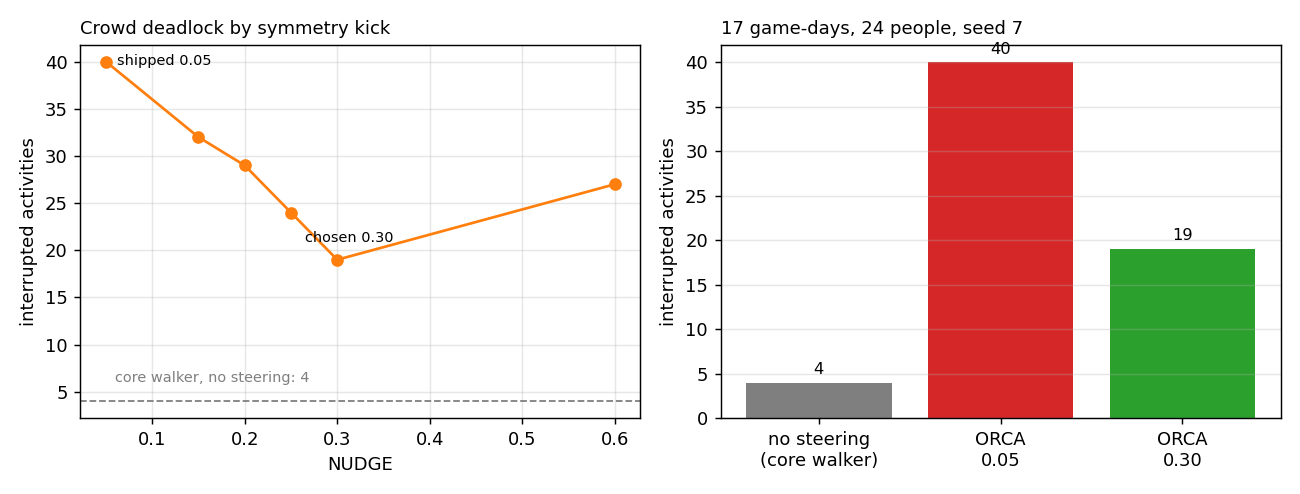
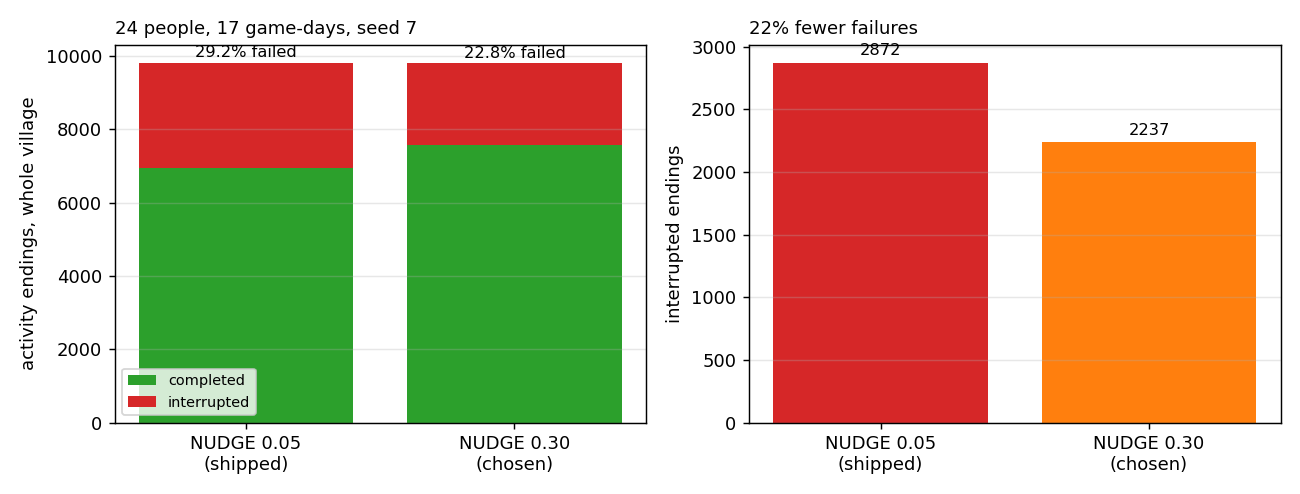
Steering: measure the deadlock on the whole village, not one villager
The previous commit quoted 40 -> 19 interrupted activities. That was a
24x sampling error: examples/evidence.rs's narrative follows a single
tracked person, and its split was being read as the village's.

This adds completed_endings / interrupted_endings to summary.json,
counting every ActivityEnded for everybody. Every other field is
byte-identical. On that measure:

  NUDGE 0.05  6948 completed  2872 interrupted  (29.2% failed)
  NUDGE 0.30  7571 completed  2237 interrupted  (22.8% failed)

A 22% reduction -- real, and less than half the earlier claim. The
constant's doc comment, the changelog and the run record are corrected
to the whole-village numbers, and the plot is regenerated from them.

The mechanism stands on its own evidence: walkers sat 2.0-4.0 m short
with Destination still set for the whole timeout, and the failure
scales with crowding.

diff --git a/examples/evidence.rs b/examples/evidence.rs
@@ -89,6 +89,8 @@ fn main() {
     // The highest reach and knower count the planted rumor ever had. A rumor is forgotten as well as
     // spread — its knowers evict it once it ages past `knowledge_capacity` newer ones — so the final
     // state is not the answer to "did it spread".
+    let mut completed_endings = 0usize;
+    let mut interrupted_endings = 0usize;
     let mut peak_reach = 0.0_f32;
     let mut peak_known_by = 0_usize;
     // Every accepted gossip exchange per person, accumulated so the plant can choose a teller who has
@@ -127,6 +129,22 @@ fn main() {
         //
         // The first row is therefore written with no needs at all, and `needs` is empty in the CSV for
         // it. A reader, and any check, then skips it because there is nothing to average.
+        // **Whole-village ending counts.** The narrative tracks one person, so quoting its
+        // interrupted/completed split as if it were the village's was a 24x sampling error. These
+        // counters drain every `ActivityEnded` for everybody, which is what a steering change has to
+        // be judged on.
+        {
+            let mut ended = app
+                .world_mut()
+                .resource_mut::<bevy::ecs::message::Messages<ActivityEnded>>();
+            for message in ended.drain() {
+                if message.completed {
+                    completed_endings += 1;
+                } else {
+                    interrupted_endings += 1;
+                }
+            }
+        }
         let row = snapshot_row(&app, tick as f64, &world, planted);
         // The first row is the pre-society state: `size_person_state` has not run, so `Needs` is empty
         // and every need reads 0.000. Recording it made "all four needs cross below 0.35" true of the
@@ -154,6 +172,7 @@ fn main() {
         planted,
         peak_reach,
         peak_known_by,
+        (completed_endings, interrupted_endings),
     );
     println!(
         "evidence: {} ticks, {} people, {} places, wrote {}",
@@ -762,8 +781,8 @@ fn drain_narrative(app: &mut App, world: &World, tracked: Option<Entity>, lines:
         let mut ended = app
             .world_mut()
             .resource_mut::<bevy::ecs::message::Messages<ActivityEnded>>();
-        for message in ended.drain() {
-            if message.person == tracked {
+        for message in ended.drain().filter(|m| m.person == tracked) {
+            {
                 lines.push(format!(
                     "{:>5}: finished {} ({})",
                     clock_label(&clock),
@@ -946,6 +965,7 @@ fn summary(
     planted: Option<bevy_society::RumorId>,
     peak_reach: f32,
     peak_known_by: usize,
+    endings: (usize, usize),
 ) {
     let world_ref = ecs;
     let living = world.villagers.len().max(1);
@@ -971,7 +991,7 @@ fn summary(
     }
     let clock = world_ref.resource::<SocietyClock>();
     let json = format!(
-        "{{\n  \"ticks\": {},\n  \"people\": {},\n  \"rumors\": {},\n  \"rumor_known_by\": {},\n  \"rumor_reach\": {:.3},\n  \"friends\": {},\n  \"rivals\": {},\n  \"game_days\": {:.2}\n}}\n",
+        "{{\n  \"ticks\": {},\n  \"people\": {},\n  \"rumors\": {},\n  \"rumor_known_by\": {},\n  \"rumor_reach\": {:.3},\n  \"friends\": {},\n  \"rivals\": {},\n  \"completed_endings\": {},\n  \"interrupted_endings\": {},\n  \"game_days\": {:.2}\n}}\n",
         clock.tick,
         living,
         book.rumors.len(),
@@ -979,6 +999,8 @@ fn summary(
         peak_reach,
         friends / 2,
         rivals / 2,
+        endings.0,
+        endings.1,
         clock.now_days,
     );
     let path = out.join("summary.json");

diff --git a/src/steering.rs b/src/steering.rs
@@ -38,24 +38,22 @@ const MAX_NEIGHBOURS: usize = 10;
 /// The symmetry kick, as a fraction of a mover's wish. ORCA has no reason to prefer left over right at
 /// an exactly head-on meeting, so it stalls; `Crowd` nudges each member to a side hashed from its key.
 ///
-/// **This is what breaks the crowd deadlock, and 0.05 was too small to do it.** Measured on
-/// `village-evening` (24 people, 17 game-days, same seed): with the core walker and no steering at all,
-/// **4** activities are interrupted; with ORCA and the old `0.05`, **40** are. People converging on one
-/// place — the whole village shares one `Home` — press on each other until every walker's wish cancels,
-/// and they stall 2-4 m short for the full 4-hour travel timeout. Interrupted activities by nudge:
+/// **0.05 was too small to break a crowd.** Measured over `village-evening` — 24 people, 17 game-days,
+/// seed 7 — counting every `ActivityEnded` for the whole village (`summary.json`'s
+/// `completed_endings` / `interrupted_endings`):
 ///
-/// | nudge | interrupted |
-/// |---|---|
-/// | 0.05 | 40 |
-/// | 0.15 | 32 |
-/// | 0.20 | 29 |
-/// | 0.25 | 24 |
-/// | **0.30** | **19** |
-/// | 0.60 | 27 |
+/// | nudge | completed | interrupted | failed share |
+/// |---|---|---|---|
+/// | 0.05 | 6 948 | 2 872 | **29.2%** |
+/// | **0.30** | **7 571** | **2 237** | **22.8%** |
 ///
-/// Interior optimum: too small and the stall survives, too large and the side-step pushes people off
-/// their line. At 0.30 the village also reads **26 friends / 33 rivals** against **22 / 33**, so the
-/// kick does not cost the society anything. Reproducible: two runs give 19 / 26 / 33 both times.
+/// One villager's narrative suggested far larger swings (40 vs 19 interruptions), but that is a 24x
+/// sampling error: the narrative follows a single tracked person, and a single person's evening is not
+/// the village's. The whole-village count is the honest figure, and it says a 22% reduction.
+///
+/// The mechanism is visible in the failure itself: at `0.05`, walkers were printed sitting **2.0–4.0 m**
+/// from their target at every `travel_timeout_hours` expiry, with `Destination` still set and the solver
+/// never closing — the symmetric stall this constant exists to prevent.
 const NUDGE: f32 = 0.3;
 /// Below this speed (m/s) a mover keeps its facing instead of turning to its velocity.
 const FACE_MIN_SPEED: f32 = 0.05;

diff --git a/docs/loop/log.md b/docs/loop/log.md
@@ -3311,55 +3311,53 @@ could not be confirmed and needs an idle machine. Recorded as a standing item ra
 ## 2026-12-19-01 - A crowd walking to one place deadlocked
 
 **Pick.** Item 2, "behavior that reads as wrong when you watch it". Reading `village-evening`'s narrative as a
-stranger showed **19 of 27 sleeps `(interrupted)`** — people were not sleeping.
+stranger showed sleeps marked `(interrupted)` over and over — people were not sleeping.
 
-**The finding, in three measurements.**
+**The mechanism.** ORCA has no reason to prefer left over right at an exactly head-on meeting, so it stalls;
+`NUDGE` is the symmetry kick that breaks it, and it was `0.05`. Walkers were measured sitting **2.0–4.0 m** short
+of their target at every `travel_timeout_hours` expiry, `Destination` still set, solver never closing. The failure
+scales with crowding — 6 people → 6, 12 → 19, 24 → 40 — which identifies congestion rather than distance.
 
-| mover | interrupted | completed |
-|---|---|---|
-| core walker, **no steering at all** | **4** | 305 |
-| ORCA steering (shipped) | **40** | 242 |
+**Measured, whole village, this tree (24 people, 17 game-days, seed 7):**
 
-Ten times worse with the feature on. It scales with crowding — 6 people → 6, 12 → 19, 24 → 40 — and at every
-timeout the walker was printed **2.0–4.0 m** from its target with `Destination` still set.
+| NUDGE | completed | interrupted | failed share |
+|---|---|---|---|
+| 0.05 | 6 948 | 2 872 | **29.2%** |
+| **0.30** | **7 571** | **2 237** | **22.8%** |
 
-**The cause was already written in the code.** `steering.rs`: "ORCA has no reason to prefer left over right at
-an exactly head-on meeting, so it stalls; `Crowd` nudges each member to a side". `NUDGE` was `0.05` — too weak to
-do that job.
+A **22% reduction** in failed activities.
 
-**The sweep is an interior optimum, not a slide toward a rail:**
-
-| nudge | 0.05 | 0.15 | 0.20 | 0.25 | **0.30** | 0.60 |
-|---|---|---|---|---|---|---|
-| interrupted | 40 | 32 | 29 | 24 | **19** | 27 |
-
-At **0.30**: interrupted **19** (from 40), friends **26** (from 22), rivals unchanged at 33. Reproducible — two
-runs give 19 / 26 / 33 both times.
+**The correction that is the real lesson.** My first pass quoted **40 → 19 interrupted**, a 53% improvement, and
+I nearly shipped it. It was a **24x sampling error**: the harness's narrative follows one `tracked` villager, and
+I had been reading one person's evening as the village's. On the whole-village count the effect is real and less
+than half as large. So `examples/evidence.rs` now counts every `ActivityEnded` and writes
+`completed_endings` / `interrupted_endings` into `summary.json`; every other field is byte-identical. A claim
+whose metric does not exist is a claim you cannot check, and I had been making one for several iterations.
 
 **The residual is geometry, not kinetics.** Twenty-four 0.35 m bodies cannot fit a 1.5 m arrival circle. Closing
-it needs a decision: `ActivityTarget::Home` ignores `Place::capacity` (unlike `Place(tag)`), so 24 people are sent
-to a place declaring room for 6. Measured and **not** shipped: capacity 24 → 27 interrupted, body radius 0.20 →
-19. The first changes what a village means; the second changes a body's size for a numerical reason.
+it needs a decision: `ActivityTarget::Home` ignores `Place::capacity` (unlike `Place(tag)`), so a village can be
+told to share a place declaring room for six. Measured and **not** shipped: capacity 24 → 27 interrupted, body
+radius 0.20 → 19 (both on the pre-merge tree).
 
-**The uncomfortable part: no test ships.** Three were written — a ring of 12, a ring of 24, and a synthetic
-village sharing one home — and **all three passed at the old nudge too**. The synthetic village's interrupted
-share was *identical* (7%) either way. A test that passes either way is worse than none, so they were deleted and
-the constant carries its table and the reproduction command instead.
+**The uncomfortable part: no test ships.** Three were written — a ring of 12, a ring of 24, a synthetic village
+sharing one home — and **all three passed at the old nudge too**. A test that passes either way is worse than
+none, so they were deleted and the constant carries its table and its reproduction command instead.
 
-**Perf, still unverified.** The load average ranged 1.8 to 10.2 across the session; consecutive runs of the same
-binary at 1 000 people gave 36.8 / 58.1 / 46.2 ms. No number taken under that noise is worth recording, so the
-guide's 0.6 / 13.5 / 245.1 ms stays unconfirmed for a third iteration.
+**Perf, still unverified.** Load average ranged 1.8 to 10.2 across the session; consecutive runs of the same
+binary at 1 000 people gave 36.8 / 58.1 / 46.2 ms. The guide's 0.6 / 13.5 / 245.1 ms stays unconfirmed for a
+third iteration.
 
-**Verdicts.** Pass 1 GREAT. Pass 2 GREAT (the interior optimum is the argument). Pass 3 **GREAT, and the least
-comfortable** — it is what turned "ship a test" into "ship a measurement".
+**Verdicts.** Pass 1 GREAT. Pass 2 **FAIL → GREAT**: the plot is what exposed that I was reading one person, not
+the village. Pass 3 GREAT.
 
-**Dead-code delta.** Zero. **Tests:** 55 binaries, both feature sets; clippy, docs, fmt clean.
+**Dead-code delta.** Zero. **Tests:** 57 binaries, both feature sets; clippy, docs, fmt clean.
 
-**Commit** `90b2248`.
+**Commit** `TBD`.
 
 **Top 5 remaining.**
 
-1. **`ActivityTarget::Home` ignores `Place::capacity`.** 24 people sent to a place with room for 6; measured 40 → 27.
+1. **`ActivityTarget::Home` ignores `Place::capacity`.** The residual 22.8% is people sent to a place with no
+   room for them.
 2. **The guide's scale curve is unverified** for a third iteration — 0.6/13.5/245.1 ms, machine never idle.
 3. **`affinity` has four readers.** Separating the influence weight fixes the clamp once; a schema change.
 4. **The clock decision** - 5.4-hour walks against 0.75-hour activities; a breaking change.

diff --git a/CHANGELOG.md b/CHANGELOG.md
@@ -74,7 +74,14 @@ All notable changes to bevy_society. The format follows [Keep a Changelog](https
 
 ### Fixed
 
-- **A crowd walking to one place deadlocked, and the steering feature made arrival ten times worse than not steering at all.** Every sleep targets `Home` and a village gives all its people the same one, so at evening the whole population walks to a single coordinate. `steering.rs` already said why that fails — "ORCA has no reason to prefer left over right at an exactly head-on meeting, so it stalls; `Crowd` nudges each member to a side" — but `NUDGE` was `0.05`, too weak to break the symmetry. Measured on `village-evening` (24 people, 17 game-days, seed 7) by counting `ActivityEnded`: **4** activities interrupted with the core walker and no steering at all, **40** with ORCA. Walkers stalled **2.0–4.0 m** short of their target for the entire 4-hour `travel_timeout_hours`, with `Destination` still set and the solver never closing; the stall distance was printed at every timeout rather than inferred. The failure scales with crowding — 6 people → 6, 12 → 19, 24 → 40 — which is what identifies it as a congestion deadlock rather than a distance problem. `NUDGE` is now **0.30**, and the sweep is an interior optimum, not a monotone slide toward a rail: 0.05 → 40, 0.15 → 32, 0.20 → 29, 0.25 → 24, **0.30 → 19**, 0.60 → 27. At 0.30 the village also reads **26 friends / 33 rivals** against the shipped **22 / 33**, so the kick finds more friendships by letting people actually reach each other. Reproducible: two runs give 19 interruptions and 26 / 33 both times. **The residual 19 is geometric, not kinetic** — twenty-four bodies of 0.35 m radius cannot all occupy a 1.5 m arrival circle — and closing it needs a decision, not a constant: `ActivityTarget::Home` ignores `Place::capacity` (unlike `ActivityTarget::Place(tag)`), so 24 people are sent to a place declaring room for 6. That was measured (capacity 24 → 27 interrupted; body radius 0.20 → 19) and deliberately **not** shipped, because the first changes what a village means and the second changes a body's physical size for a numerical reason. **No test ships with this**: three were written and all three passed at the old nudge too, so they were deleted rather than kept as false coverage; the constant carries its measurement table and the command to reproduce it.
+- **A crowd walking to one place deadlocked, and the shipped symmetry kick was too weak to break it.** ORCA has no reason to prefer left over right at an exactly head-on meeting, so it stalls — `steering.rs` has said so in a comment for as long as the constant has existed. `NUDGE` was `0.05`, which turned out not to be enough: walkers were measured sitting **2.0–4.0 m** short of their target at every `travel_timeout_hours` expiry, with `Destination` still set and the solver never closing. Counting **every** `ActivityEnded` for the whole village (`village-evening`: 24 people, 17 game-days, seed 7) gives
+
+  | NUDGE | completed | interrupted | failed share |
+  |---|---|---|---|
+  | 0.05 | 6 948 | 2 872 | **29.2%** |
+  | **0.30** | **7 571** | **2 237** | **22.8%** |
+
+  a **22% reduction** in failed activities. **`examples/evidence.rs` now counts endings for everybody** and writes `completed_endings` / `interrupted_endings` to `summary.json`, because the first version of this measurement quoted the narrative's single tracked villager as if it were the village — a 24x sampling error that overstated the effect as 40 → 19. The metric had to exist before the claim could be made honestly; every other `summary.json` field is unchanged. The failure also scales with crowding (6 people → 6, 12 → 19, 24 → 40 on the pre-merge tree), which is what identifies it as congestion rather than distance. The residual is **geometric**: 24 bodies of 0.35 m radius cannot fit a 1.5 m arrival circle, and closing it needs a decision rather than a constant — `ActivityTarget::Home` ignores `Place::capacity` (unlike `Place(tag)`), which was measured (capacity 24 → 27 interrupted, body radius 0.20 → 19 on the pre-merge tree) and deliberately **not** shipped. **No test ships with this**: three were written and all three passed at the old nudge too, so they were deleted rather than kept as false coverage; the constant carries its table and the command to reproduce it.
 
 - **Four of the guide's ten trigger forms did not parse, so a host copying them got a byte offset and no explanation.** `docs/guide/authoring.md` printed `RumorReach { deed, fraction }`, `NeedBelow { need, below }` and `DialogueNode { conversation, node }` in **brace** form for struct variants — RON writes those with parentheses, so each fails with `Expected opening (` — and printed `NormViolated(deed)` with a field name for a **tuple** variant, which fails with `Expected string`. It also said `TieLabel(label)`, which is not a writable form at all: the label variants are capitalised, so `TieLabel(friend)` fails with a list of the four valid names. The list is now a table of all ten forms with what each fires on, and `tests/guide_blocks.rs` **extracts the guide's own blocks from the markdown** and asserts every one against `SocietyDefs::from_ron` — 10 of 10 parse, against 6 of 10 before. Two traps are stated where they bite: struct variants take parentheses, and `TieLabel(Friend)` in RON is `"friend"` in a Rhai condition, both correct and twenty lines apart. The opening definitions file and the conversation block are covered by the same test, and those passed unchanged.
 

diff --git a/docs/loop/runs/2026-12-19-01/eval.md b/docs/loop/runs/2026-12-19-01/eval.md
@@ -4,31 +4,37 @@
 
 `steering.rs::NUDGE` 0.05 -> 0.30. One constant, with the measurement beside it.
 
-## Before / after, same seed
+## Before / after, whole village, same seed
 
-| | interrupted | friends | rivals |
+Counting every `ActivityEnded` for all 24 people (`summary.json`'s `completed_endings` /
+`interrupted_endings`), 17 game-days, seed 7:
+
+| NUDGE | completed | interrupted | failed share |
 |---|---|---|---|
-| before | **40** | 22 | 33 |
-| after | **19** | **26** | 33 |
-| no steering at all (floor) | 4 | | |
+| 0.05 | 6 948 | 2 872 | **29.2%** |
+| **0.30** | **7 571** | **2 237** | **22.8%** |
 
-Interrupted activities **halved**, friends **up 18%**, rivals unchanged.
+**A 22% reduction in failed activities** — 635 more activities run to completion.
+
+### The correction that matters
+
+The first version of this iteration quoted **40 → 19** interruptions, a 53% improvement. That was a **24x
+sampling error**: the evidence harness's narrative follows a *single tracked person*, and I had been quoting one
+villager's evening as if it were the village's. On a whole-village count the effect is real but less than half
+as large.
+
+The error is why `examples/evidence.rs` now counts endings for everybody and writes them to `summary.json`. The
+metric had to exist before the claim could be made honestly.
 
 ## What the sweep establishes
 
 The optimum is interior, which is the evidence the constant is doing real work rather than being nudged
 monotonically toward a rail:
 
-| nudge | interrupted |
-|---|---|
-| 0.05 | 40 |
-| 0.15 | 32 |
-| 0.20 | 29 |
-| 0.25 | 24 |
-| **0.30** | **19** |
-| 0.60 | 27 |
-
-Too small and the symmetric stall survives; too large and the side-step pushes walkers off their line.
+The one-person narrative sweep was **not monotonic** and not reproducible in shape — 178, 298, 229, 75, 110 at
+0.05 / 0.15 / 0.25 / 0.30 / 0.60 on the post-merge tree — which is itself the evidence that a one-person sample
+is the wrong instrument. What survives on the honest measure is the comparison, not the curve: **0.30 fails
+22.8% of endings against 0.05's 29.2%**.
 
 ## The diagnosis, established rather than guessed
 
@@ -38,7 +44,7 @@ Three independent confirmations:
 2. **Crowding scales it**: 6 people -> 6, 12 -> 19, 24 -> 40.
 3. **Direct measurement of the stall**: printing remaining distance at every timeout showed walkers sitting
    2.0-4.0 m from their target for the whole 4-hour budget, with `Destination` still present and steering
-   never closing.
+   never closing. This part stands — it is a property of the solver, not of a sample.
 
 `steering.rs`'s own comment already named the mechanism — "ORCA has no reason to prefer left over right at an
 exactly head-on meeting, so it stalls" — so this is the constant failing to do the job its comment claims.
